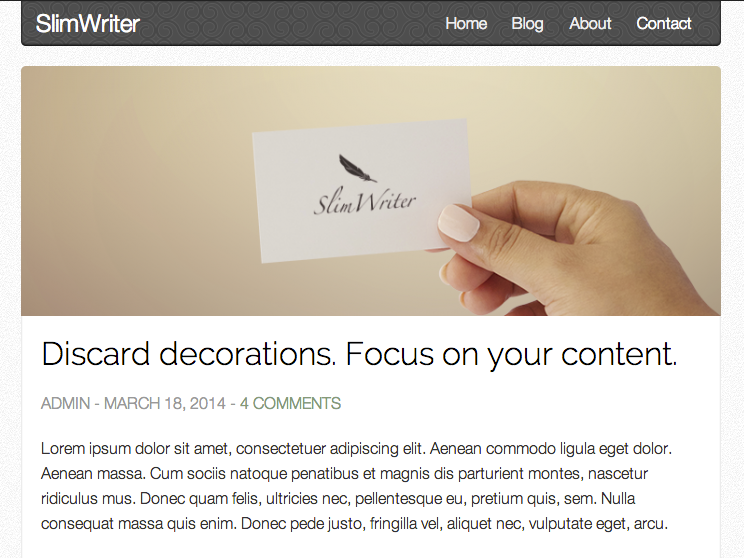
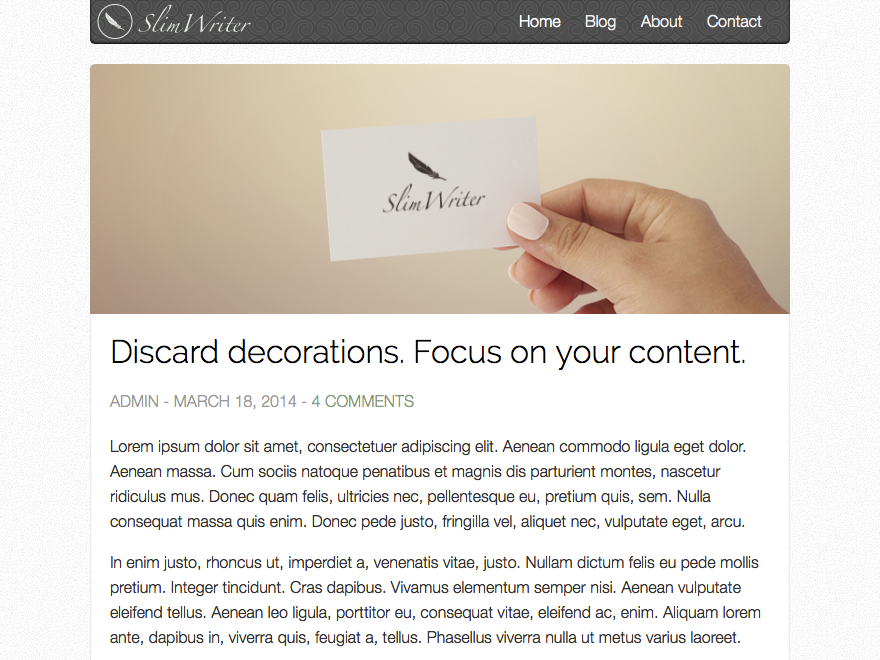
video width

diff --git a/static/css/style.css b/static/css/style.css
@@ -197,6 +197,10 @@ h3#reply-title,
 .entry p:first-child{
     padding-top:0;
 }
+
+.video-container { position: relative; padding-bottom: 56.25%; height: 0; overflow: hidden; margin-bottom:20px; }
+.video-container iframe, .video-container object, .video-container embed, .video-container video { position: absolute; top: 0; left: 0; width: 100%; height: 100%; }
+
 .entry-footer{
     padding:20px;
     border-top:1px solid #eee;
@@ -270,14 +274,14 @@ h3#reply-title,
 }
 
 #logo{
-	width:160px;height:45px;
+	width:165px;height:45px;
 	line-height:45px;
 	display:block;
 	position:absolute;
 	color:#fff;
 	overflow:hidden;
 	font-size:24px;
-	padding-left:15px;
+	padding-left:5px;
 	text-decoration:none;
 }
 
